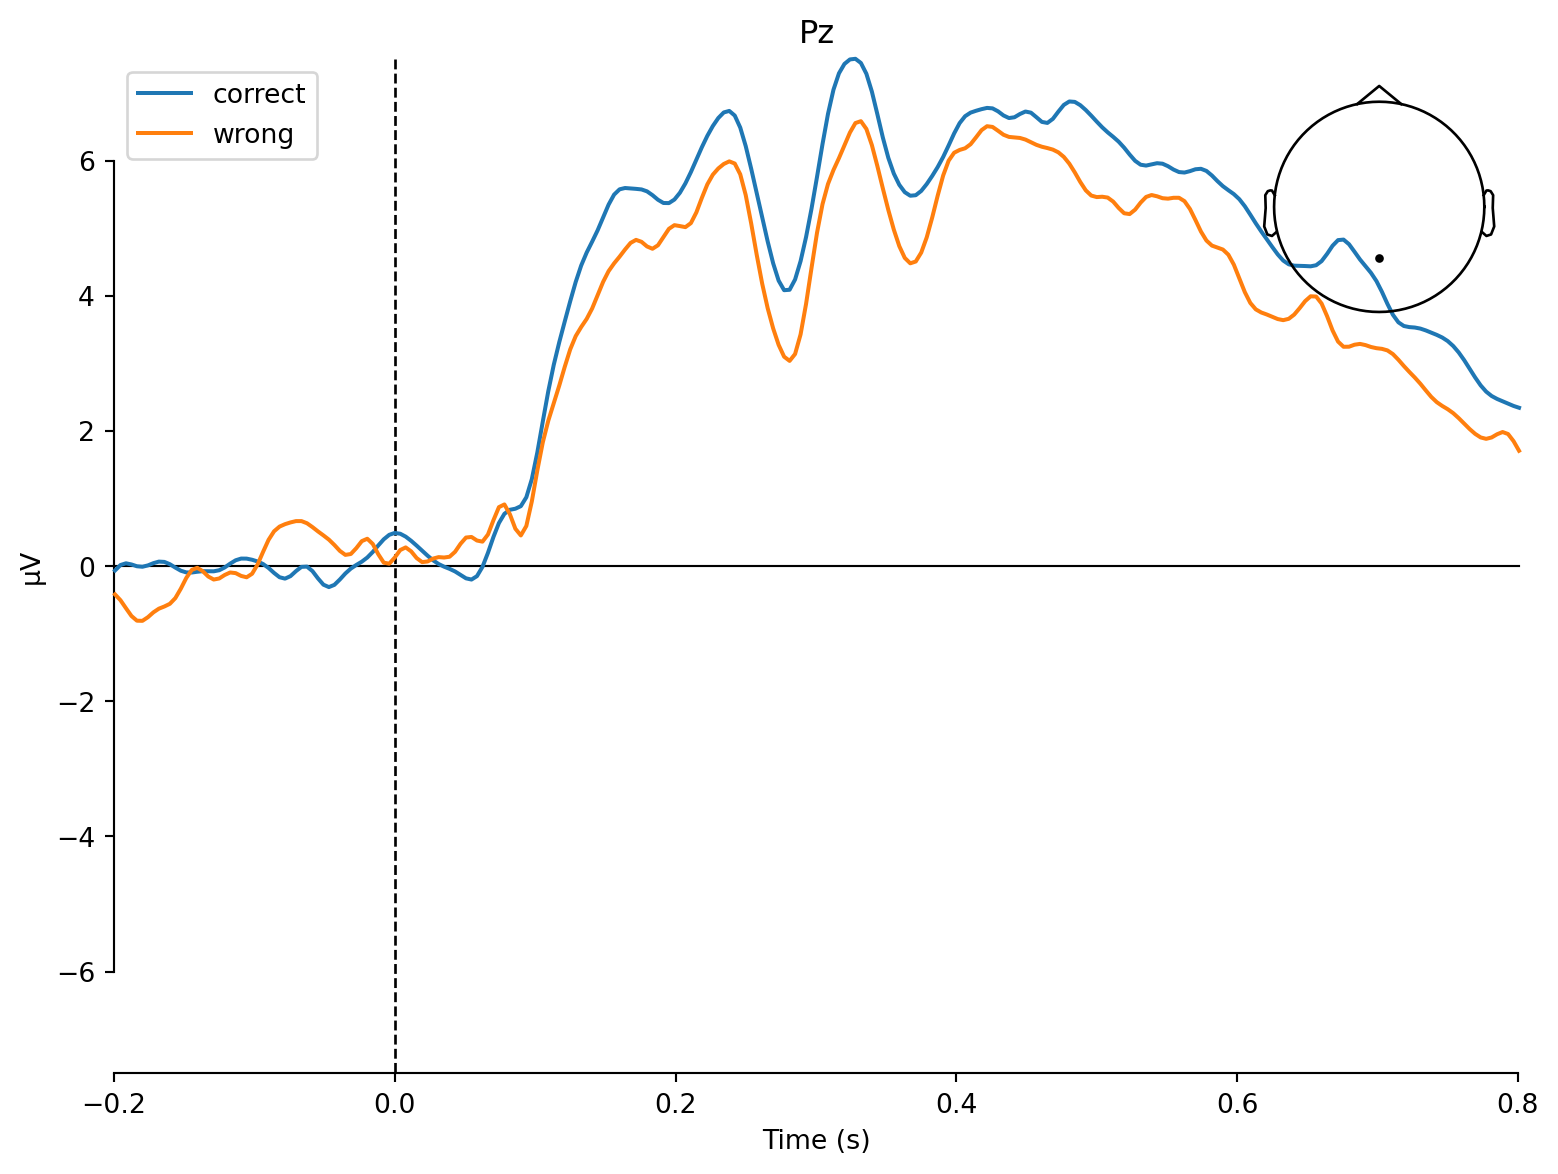
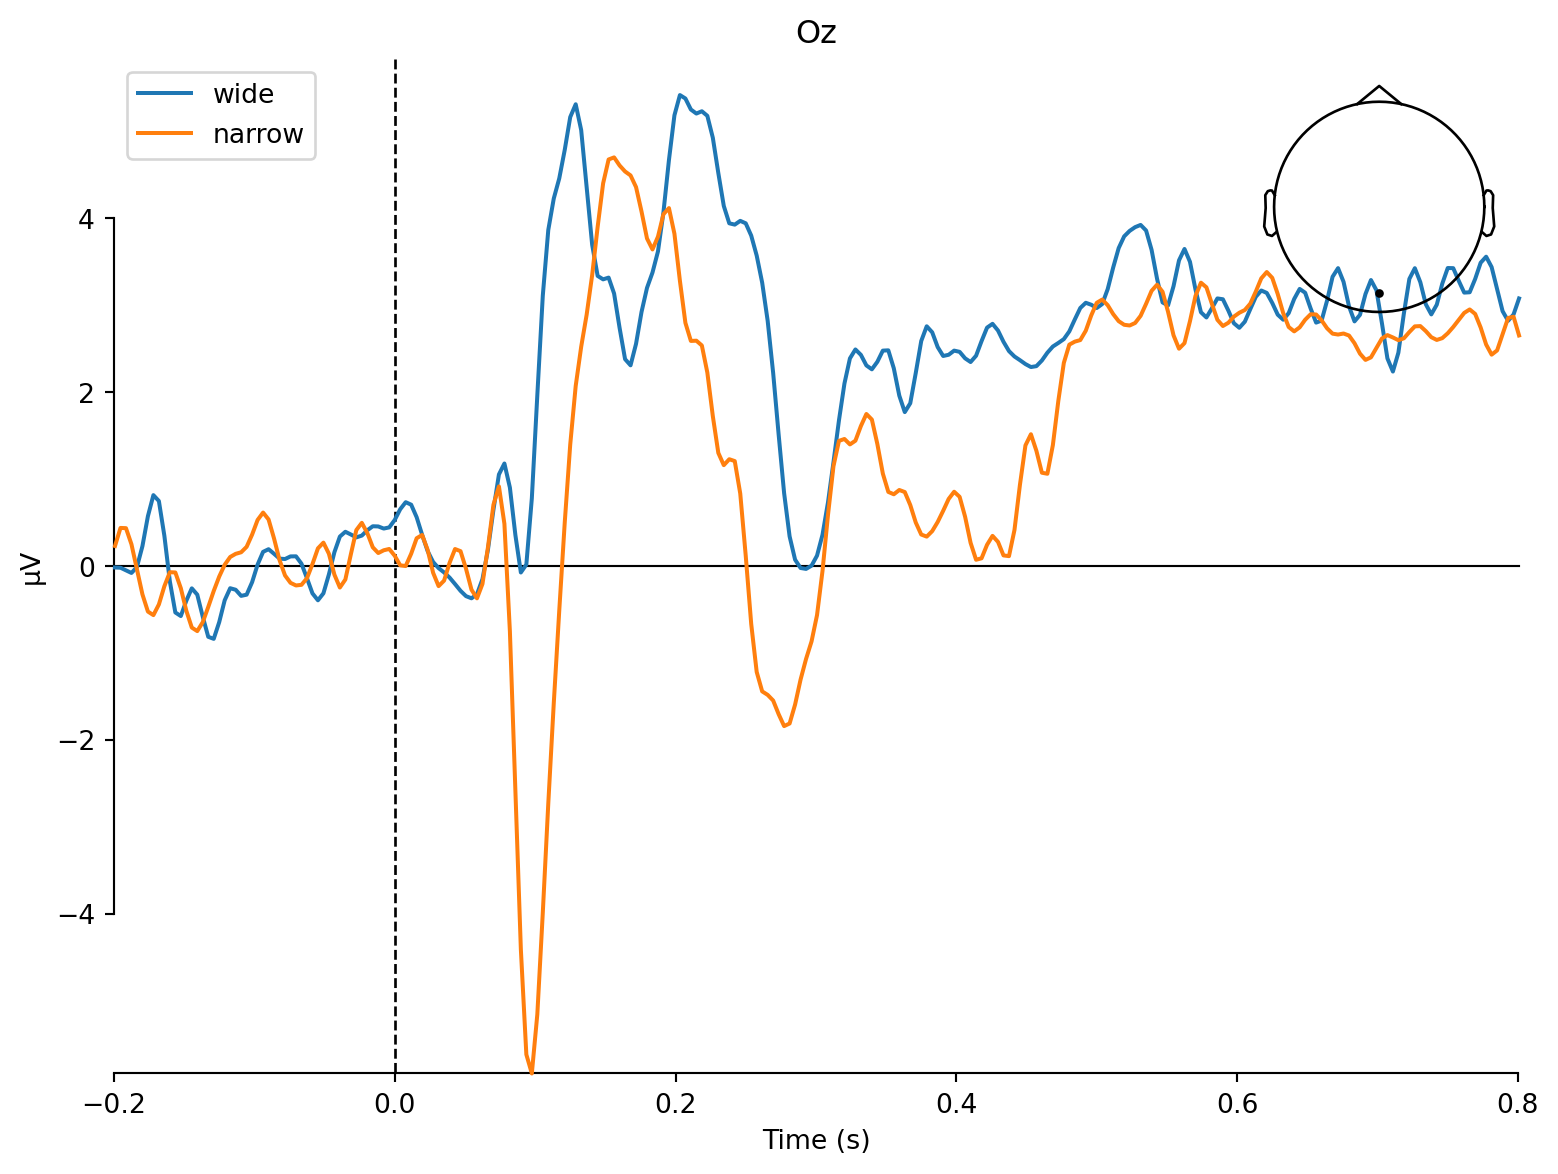
Chapter 4: comparisons motivated by a prediction (stripe width at Oz, feedback at FCz); feedback-locked epochs added to the demo data

diff --git a/tools/make_demo_data.py b/tools/make_demo_data.py
@@ -12,7 +12,8 @@ Three tiers, all from one experiment:
                   first N_RAW_TRIALS trials of visit 1) and one minute
                   of eyes-closed rest, downsampled to RAW_SFREQ and
                   otherwise untouched, with the matching behaviour rows
-  sub-01/epochs/  the cleaned stimulus-locked epochs of every visit
+  sub-01/epochs/  the cleaned stimulus-locked epochs of every visit, and
+                  the feedback-locked epochs of visit 1
   group/          each participant's average response per visit and
                   category
 
@@ -138,12 +139,12 @@ def build_raw_rest(label, code):
                              fmt="single", overwrite=True, verbose="ERROR")
 
 
-def read_stim_epochs(code, visit):
-    """One visit's cleaned stimulus-locked epochs with allow-listed metadata, or None."""
+def read_epochs(code, visit, lock="Stim"):
+    """One visit's cleaned epochs of one locking (Stim or FB) with allow-listed metadata, or None."""
     path = SRC / "EEG_epo_v2" / "ii_task" / f"P{code:03d}_ii_{visit}-epo.fif"
     if not path.exists():
         return None
-    epochs = mne.read_epochs(path, preload=True, verbose="ERROR")["Stim"]
+    epochs = mne.read_epochs(path, preload=True, verbose="ERROR")[lock]
     epochs.pick("eeg", exclude=[])
     epochs.metadata = epochs.metadata[METADATA_COLUMNS].reset_index(drop=True)
     return strip_identity(epochs)
@@ -153,9 +154,12 @@ def build_epochs(label, code):
     out = OUT / label / "epochs"
     out.mkdir(parents=True, exist_ok=True)
     for visit in VISITS:
-        epochs = read_stim_epochs(code, visit)
+        epochs = read_epochs(code, visit)
         epochs.save(out / f"{label}_visit-{visit}_stim-epo.fif", fmt="single", overwrite=True,
                     verbose="ERROR")
+    feedback = read_epochs(code, RAW_VISIT, lock="FB")
+    feedback.save(out / f"{label}_visit-{RAW_VISIT}_fb-epo.fif", fmt="single", overwrite=True,
+                  verbose="ERROR")
 
 
 def build_group():
@@ -165,7 +169,7 @@ def build_group():
     for label, code in CODES.items():
         evokeds = []
         for visit in VISITS:
-            epochs = read_stim_epochs(code, visit)
+            epochs = read_epochs(code, visit)
             if epochs is None:
                 continue
             epochs.interpolate_bads(verbose="ERROR")

diff --git a/eegtut/__init__.py b/eegtut/__init__.py
@@ -1,7 +1,7 @@
 """Plumbing for the tutorial pages: where the demo data are, and nothing about EEG.
 
 The pages import this so that the code they show is only the analysis.
-On first use the demo dataset is downloaded (about 270 MB) unless it is
+On first use the demo dataset is downloaded (about 320 MB) unless it is
 already in data/ or the folder named by the EEGTUT_DATA variable.
 """
 
@@ -53,6 +53,11 @@ def behaviour_file(visit=1):
 def epochs_file(visit):
     """The cleaned stimulus-locked epochs of one visit (1 to 5)."""
     return data_dir() / "sub-01" / "epochs" / f"sub-01_visit-{visit}_stim-epo.fif"
+
+
+def feedback_epochs_file(visit=1):
+    """The cleaned feedback-locked epochs (visit 1 only)."""
+    return data_dir() / "sub-01" / "epochs" / f"sub-01_visit-{visit}_fb-epo.fif"
 
 
 def group_files():

diff --git a/tools/DATA_README.md b/tools/DATA_README.md
@@ -25,6 +25,7 @@ electrodes by the left eye.
 | `sub-01/raw/sub-01_visit-1_task_behaviour.csv` | One row per trial of that excerpt. |
 | `sub-01/raw/sub-01_visit-1_rest_raw.fif` | One minute of eyes-closed rest from the same visit, same channels, no triggers. |
 | `sub-01/epochs/sub-01_visit-<n>_stim-epo.fif` | Cleaned epochs around every stimulus of visit `n`: -0.2 to 0.8 s, 256 Hz, 0.5 to 40 Hz, average reference, eye movements removed by ICA, bad epochs repaired or dropped. Channels named in the 10-20 system. A channel listed as bad was left out of the cleaning and should be interpolated or ignored. The trial table is in `.metadata`. |
+| `sub-01/epochs/sub-01_visit-1_fb-epo.fif` | The same for visit 1, cut around the feedback instead of the stimulus. Feedback was a ring around the stimulus, green for correct and red for incorrect; the stimulus stayed on screen. |
 | `group/sub-<nn>_stim-ave.fif` | For each of 11 participants, the average response to category A and to category B on the training trials of each visit (comments `visit-<n>/A`, `visit-<n>/B`). Two participants have four visits. |
 | `manifest.csv` | Size and SHA-256 of every file. |
 

diff --git a/README.md b/README.md
@@ -32,7 +32,7 @@ runs no Python.
 ## The demo dataset
 
 `python tools/make_demo_data.py` rebuilds `data/eeg_tutorial_data_v1/`
-(about 270 MB, under a minute) from the source experiment, which it
+(about 320 MB, under a minute) from the source experiment, which it
 only reads. It needs `private/sources.toml`. The script copies only
 allow-listed channels and columns, writes everything under tutorial
 labels, removes recording dates, and ends by scanning every output file
@@ -49,4 +49,8 @@ then download it on first use.
 - Exercises change a number and rerun. They never ask for new code.
 - Teach the method on one participant. No findings from the lab's
   unpublished work.
+- Motivate every comparison before showing it: say where and when an
+  effect is expected and why, then look. Prefer well-known effects.
+- Check every number and description in the prose against the figure the
+  code actually produces.
 - End each page with how the lab's real pipeline does the same step.
